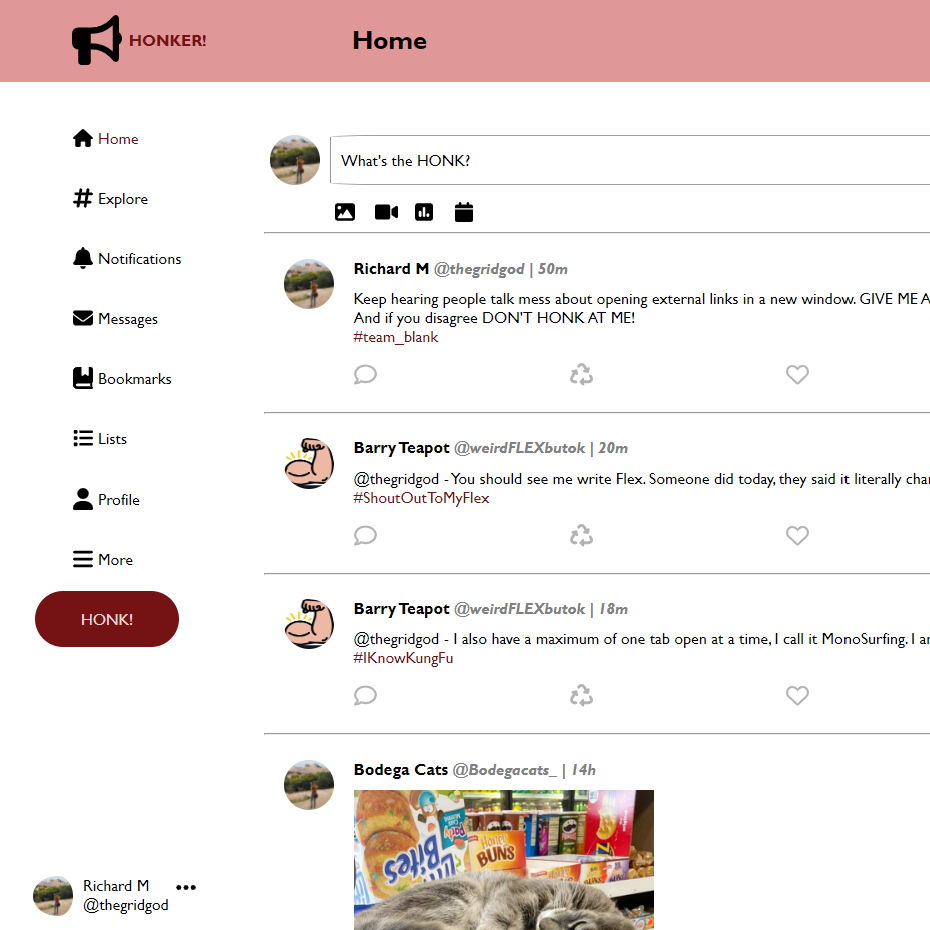
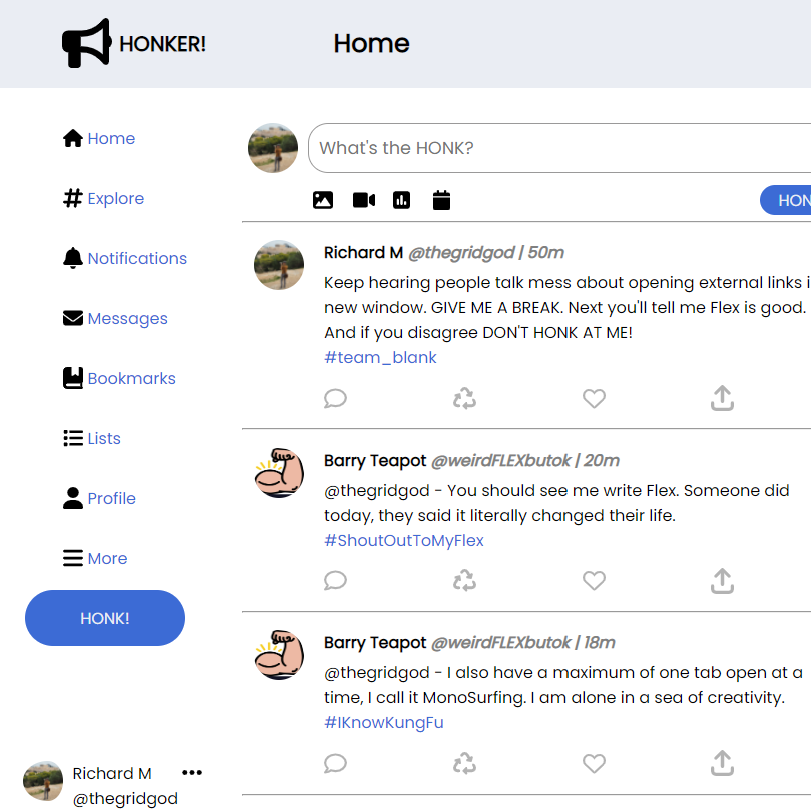
Honker - reskinned and added text fields

diff --git a/index.html b/index.html
@@ -28,7 +28,6 @@
       </div>
 
       <div id="project-gallery-scroll"></div>
-
       <div id="wall">
 
         <!-- TWITTER / HONKER -->
@@ -38,23 +37,36 @@
             <img class="preview" src="./assets/images/honkerPreview.png" alt="Preview image of page 'HONKER'"></a>
               <div class="github-logo"><a href="https://github.com/richard-mattinson/boolean-uk-html-twitter" target=”_blank” rel="noopener"><img class="github" src="./assets/icons/github.svg" alt="Github logo"></a></div>
               <h2><a href="./Projects/Honker/index.html">Twiiter Clone - Honker</a></h2>
-              <p>
-              <b>Challenge</b> - Create a Twitter-like layout. <br>
-              <b>Solutions</b> - The most technical part of this was getting the timeline to scroll, while keeping the asides fixed in place. I discovered how to both set a cell to scroll, and also hide the default styling. My other big achievement was working out how to swap out the left aside for a footer bar in mobile view.
-            </p>
+              <p class="card-text">
+                <b>Exercise</b> - Create a Twitter-like layout. 
+                <br>
+                <b>Key Takeaways</b> - The most technical part of this was getting the timeline to scroll, while keeping the asides fixed in place. I discovered how to both set a cell to scroll, and also hide the default styling. My other big achievement was working out how to swap out the left aside for a footer bar in mobile view.
+              </p>
+              <p class="card-gitlink">
+                <a href="https://github.com/richard-mattinson/boolean-uk-html-twitter" target=”_blank” rel="noopener">Github Repo</a>
+              </p>
         </div>
         </div>
 
         <!-- FULL STACK PORTFOLIO -->
         <div class="card">
           <div class="cards">
+            
             <a href="./Projects/Portfolio/index.html">
             <img class="preview" src="./assets/images/fullStackPreview.png" alt="Preview image of page 'Full Stack Portfolio'"></a>
-              <div class="github-logo"><a href="https://github.com/richard-mattinson/boolean-uk-html-full-stack-portfolio" target=”_blank” rel="noopener"><img class="github" src="./assets/icons/github.svg" alt="Github logo"></a></div>
-              <h2><a href="./Projects/Portfolio/index.html">Full Stack Portfolio</a></h2>
-              <p>
-              <b>Challenge</b> - Create a personal portfolio.
-              <b>Solutions</b> - The core challenge here was creating responsive behavior for the Portfolio section, causing the cards to automatically move to a new row as screen width reduces.
+              <div class="github-logo">
+                <a href="https://github.com/richard-mattinson/boolean-uk-html-full-stack-portfolio" target=”_blank” rel="noopener"><img class="github" src="./assets/icons/github.svg" alt="Github logo"></a>
+              </div>
+            
+            <h2><a href="./Projects/Portfolio/index.html">Full Stack Portfolio</a></h2>
+            
+            <p class="card-text">
+              <b>Exercise</b> - Create a personal portfolio.
+              <b>Key Takeaways</b> - The core challenge here was creating responsive behavior for the Portfolio section, causing the cards to automatically move to a new row as screen width reduces.
+            </p>
+
+            <p class="card-gitlink">
+              <a href="https://github.com/richard-mattinson/boolean-uk-html-twitter" target=”_blank” rel="noopener">Github Repo</a>
             </p>
         </div>
         </div>
@@ -66,9 +78,9 @@
             <img class="preview" src="./assets/images/gymtasticPreview.png" alt="Preview image of page 'Full Stack Portfolio'"></a>
               <div class="github-logo"><a href="https://github.com/richard-mattinson/boolean-uk-html-gymtastic" target=”_blank” rel="noopener"><img class="github" src="./assets/icons/github.svg" alt="Github logo"></a></div>
               <h2><a href="./Projects/Gymtastic/gymdex.html">Gymtastic</a></h2>
-              <p>
-              <b>Challenge</b> - Recreate a Gym site, along with a About Us section. <br>
-              <b>Solutions</b> - Combining lists and inline styling to give the site readability both on the site and my screen readers. 
+              <p class="card-text">
+              <b>Exercise</b> - Recreate a Gym site, along with a About Us section. <br>
+              <b>Key Takeaways</b> - Combining lists and inline styling to give the site readability both on the site and my screen readers. 
             </p>
         </div>
         </div>
@@ -79,9 +91,9 @@
             <a href="./Projects/placesIveBeen/travelindex.html">
             <img class="preview" src="./assets/images/placesPreview.png" alt="Preview image of page 'Places I've Been'"></a>
               <h2><a href="./Projects/placesIveBeen/travelindex.html">Places I've Been</a></h2>
-              <p>
-              <b>Challenge</b> - A test space before I formally began my coding course. <br>
-              <b>Solutions</b> - Using a combination of HTML, CSS and a small amount of JS to put together a simple site on two of my other passions; travel and photography.
+              <p class="card-text">
+              <b>Exercise</b> - A test space before I formally began my coding course. <br>
+              <b>Key Takeaways</b> - Using a combination of HTML, CSS and a small amount of JS to put together a simple site on two of my other passions; travel and photography.
             </p>
         </div>
         </div>
@@ -93,6 +105,6 @@
     <footer>
       Richard Mattinson | 2022
     </footer>
-    
+
   </body>
 </html>

diff --git a/Projects/Test Area/test.html b/Projects/Test Area/test.html
@@ -24,7 +24,101 @@
          <!-- <div class="text">
                     <div class="name">Richard M</div>
                     <div class="project">Coding Projects</div> -->
-         </div>
+         <!-- </div> -->
+        </div>
+
+        <div class="user-input">
+ 
+            <form>
+                <label for="email">
+                    Email:
+                    <input type="email" id="email" name="email" required placeholder="Your Email Address" />  
+                </label>
+    
+                <label for="password">
+                    Password:
+                    <input type="password" id="password" name="password" required minlength="8"/>
+                </label>
+    
+                <label for="password-retype">
+                    Retype Password:
+                    <input type="password" id="password-retype" name="password-retype" required/>
+                </label> 
+    
+                <button for="submit">
+                    Submit
+                </button>
+            </form>
+
+            <hr>
+
+            Personal Information <br>
+
+            <label for="dob">
+                Last time you said "Wow"?
+                <input type="date" name="dob" />
+            </label> <br>
+
+            <label for="location">
+                Location of best Cat?
+                <select name="city">
+                    <option value="lon">Oxford</option>
+                    <option value="gla">Outside Oxford</option>
+                    <option value="car">Off Planet</option>
+                </select>
+            </label> <br>
+
+            <label for="fave-color">
+                Second Favorite Color?
+                <input type="color" name="fave-color" />
+            </label>
+
+            <hr>
+
+            Do you agree to the Terms and Conditions you haven't read? <br>
+            <label for="terms-agree">
+                <input type="radio" name="terms" value="Agree" />
+                Sure
+            </label>
+
+            <br>
+
+            <label for="terms-disagree">
+                <input type="radio" name="terms" value="Disagree" />
+                Absolutely Not
+            </label> <br>
+
+            <label for="terms-eula">
+                <input type="radio" name="terms" value="eula" />
+                I'm still not sure what a EULA even is.
+            </label>
+
+            <br>
+
+            <button for="submit">
+                Submit
+            </button>
+
+            <hr>
+
+            <label for="agree">
+                agree
+                <input type="checkbox" name="agree" />
+            </label>
+
+
+            <hr>
+
+            <input type="number" name="age" />
+
+            <input type="date" name="event-date" />
+
+      
+
+            <input type="file" name="screenshot" />
+
+            <input type="number" name="age" />
+
         </div>
 
         <script src="" async defer></script>

diff --git a/Projects/Honker/style.css b/Projects/Honker/style.css
@@ -8,14 +8,14 @@ a, a:hover, a:focus, a:active {
     padding:0;
     margin:0;
     box-sizing: border-box;
-    font-family: "Gill Sans", "Gill Sans MT", Calibri, "Trebuchet MS", sans-serif;
+    font-family: 'Poppins', sans-serif;
     scroll-behavior: smooth;
 }
 
 :root {
-    --redPrimary: rgb(117, 19, 20);
-    --redSecondary: rgb(223, 151, 152);
-    --redTertiary: rgb(240, 215, 215);
+    --redPrimary: rgb(60, 107, 213);
+    --redSecondary: rgb(60, 107, 213);
+    --redTertiary: rgb(234, 237, 243);
     
     --tenPadding: 0% 10%;
 }
@@ -38,7 +38,7 @@ header {
     position: fixed;
     display: grid;
     grid-template-columns: 300px 1fr 300px;
-    background-color: var(--redSecondary);
+    background-color: var(--redTertiary);
     top: 0;
     right: 0;
     left: 0;
@@ -76,7 +76,15 @@ header {
     border-radius: 20px;
     padding: 5%;
     margin: 5%;
-    background-color: var(--redTertiary);
+    background-color: white;
+}
+
+input {
+    border: none;
+    font-size: 1.1rem;
+    resize: none;
+    outline: none;
+    width: 100%;
 }
 
 #magnify {
@@ -91,11 +99,12 @@ header {
 
 .honkerText {
     font-weight: 700;
+    font-size: 1.3rem;
+    color: black;
 }
 
 .honkerText:hover {
-    color: var(--redPrimary);
-    font-weight: 900;
+    font-size: 1.7rem;
 }
                     /* HEADER ENDS */
 
@@ -225,7 +234,7 @@ a:active {
     margin: 2px;
     padding: 10px;
     border: rgb(154, 153, 153) solid 1px;
-    border-radius: 5%;
+    border-radius: 20px;
     display: flex;
     align-content: center;
     align-items: center;
@@ -273,8 +282,8 @@ margin-right: 5px;
 }
 
 .postHonk:hover {
-    border: solid var(--redTertiary) 2px;
-    background: var(--redTertiary);
+    border: solid var(--redPrimary) 2px;
+    background: white;
     color: var(--redPrimary);
     font-weight: 700;
 }
@@ -362,7 +371,7 @@ em {
     display: grid;
     grid-template-columns: auto 70px;
     margin: 20px 5px;
-    font-size: 1.2rem;
+    font-size: 1.1rem;
 }
 
 .honkening img {

diff --git a/Projects/Honker/index.html b/Projects/Honker/index.html
@@ -12,6 +12,9 @@
         <meta name="viewport" content="width=device-width, initial-scale=1">
         <link rel="stylesheet" href="style.css">
         <script src="https://kit.fontawesome.com/a21d068a00.js" crossorigin="anonymous"></script>
+        <style>
+            @import url('https://fonts.googleapis.com/css2?family=Poppins&display=swap');
+        </style>
     </head>
     <body>
         <!--[if lt IE 7]>
@@ -32,7 +35,7 @@
 
             <div class="search">
                 <img id="magnify" src="./assets/icons/magnifying-glass-solid.svg" alt="Search HONKER!">
-                Search HONKER!
+                <input type="text" placeholder="Search HONKER!">
             </div>
         </header>
 
@@ -98,7 +101,7 @@
                             <img src="./assets/images/PA120330small.jpg" alt="Your Profile Picture">
                         </div>
                         <div class="field">
-                            What's the HONK?
+                            <input type="text" placeholder="What's the HONK?">
                         </div>
                     </div>
                     <ul class="attachment">

diff --git a/style.css b/style.css
@@ -96,7 +96,8 @@ header img {
     text-align: center;
 }
 
-.project-gallery:hover {
+.project-gallery:hover,
+.project-gallery:active {
     background: var(--colorSecondary);
     color: var(--colorPrimary);
     text-decoration: underline;
@@ -166,10 +167,25 @@ b {
     display: inline;
 }
 
-p {
-    padding: 3% 3% 7% 3%;
-    /* display: flex;
-    align-content: center; */
+.card-text {
+    padding: 3% 3% 3% 3%;
+}
+
+.card-gitlink {
+    padding: 3% 3% 3% 3%;
+    display: flex;
+    place-content: center;
+    height: 100%;
+    background: var(--colorPrimary);
+    color: var(--colorSecondary);
+    border-radius: 0px 0px 15px 15px;
+}
+
+.card-gitlink:hover {
+    background: var(--colorSecondary);
+    color: var(--colorPrimary);
+    text-decoration: underline;
+    font-weight: 600;
 }
 
   /* INDEX ENDS */

diff --git a/Projects/Test Area/teststyle.css b/Projects/Test Area/teststyle.css
@@ -6,10 +6,10 @@ a, a:hover, a:focus, a:active {
 
 * {
     padding:0;
-    margin:0;
+    margin:5px;
     box-sizing: border-box;
     font-family: "Gill Sans", "Gill Sans MT", Calibri, "Trebuchet MS", sans-serif;
-    color: rgb(242, 211, 216);
+    /* color: rgb(242, 211, 216); */
     scroll-behavior: smooth;
 }
 
@@ -50,4 +50,9 @@ a, a:hover, a:focus, a:active {
 
 .project {
     text-transform: uppercase;
+}
+
+.user-input {
+    padding: 10% 30%;
+    color: rgb(107, 34, 34);
 }
